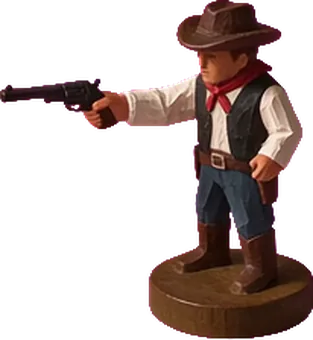
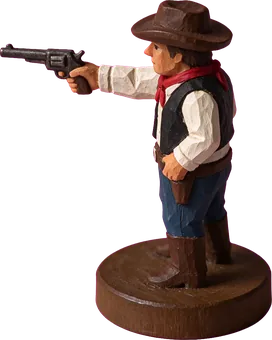
Cowboys: true side profiles (7 side views were three-quarter duplicates)

diff --git a/src/ui/sprites.ts b/src/ui/sprites.ts
@@ -1,6 +1,6 @@
 // Generated by the piece-art extract script: every piece picture and its size in pixels.
 // Pictures live in public/pieces/<army>/<piece>-<front|fdiag|side|bdiag|back>.webp; turned views (fdiag, side, bdiag) face left.
-export const SPRITES: Record<string, Record<string, Partial<Record<string, [number, number]>>>> = {"frontier":{"king":{"front":[157,330],"fdiag":[149,329],"side":[153,329],"back":[164,330],"bdiag":[152,330],"front-right":[209,330],"right":[294,330],"back-right":[284,330],"back-left":[216,330],"left":[315,330],"front-left":[287,330]},"lightInfantry":{"front":[155,332],"fdiag":[193,332],"side":[154,346],"bdiag":[200,332],"back":[155,332],"front-right":[266,332],"right":[252,332],"back-right":[206,332],"back-left":[244,332],"left":[241,332],"front-left":[201,332]},"gunslinger":{"front":[161,340],"fdiag":[153,340],"side":[153,340],"bdiag":[160,340],"back":[180,340],"front-right":[246,340],"right":[302,340],"back-right":[230,340],"back-left":[201,340],"left":[313,340],"front-left":[259,340]},"rifleman":{"front":[175,337],"fdiag":[189,337],"side":[206,337],"back":[162,337],"bdiag":[199,337],"front-right":[288,337],"right":[329,337],"back-right":[269,337],"back-left":[224,337],"left":[314,337],"front-left":[269,337]},"cowboy":{"front":[200,447],"fdiag":[259,446],"side":[353,452],"back":[181,447],"bdiag":[246,447],"front-right":[269,447],"right":[329,447],"back-right":[250,447],"back-left":[233,447],"left":[322,447],"front-left":[272,447]},"heavyCavalry":{"front":[168,456],"fdiag":[227,451],"side":[374,447],"back":[172,456],"bdiag":[232,456],"front-right":[395,456],"right":[399,456],"back-right":[393,456],"back-left":[250,456],"left":[432,456],"front-left":[365,456]}},"novgorod":{"king":{"front":[203,319],"fdiag":[165,318],"side":[164,319],"back":[195,318],"bdiag":[178,319]},"lightInfantry":{"front":[193,339],"fdiag":[187,340],"side":[188,308],"back":[190,336],"bdiag":[161,339]},"heavyInfantry":{"front":[225,302],"fdiag":[205,302],"side":[211,303],"bdiag":[193,303],"back":[198,302]},"archer":{"front":[144,317],"fdiag":[154,316],"side":[160,315],"bdiag":[164,316],"back":[145,316]},"lightCavalry":{"front":[144,436],"fdiag":[229,424],"side":[309,377],"back":[141,433],"bdiag":[210,436]},"heavyCavalry":{"front":[143,422],"fdiag":[224,440],"side":[323,422],"back":[133,401],"bdiag":[195,422]}},"teutonic":{"king":{"front":[166,327],"side":[166,327],"back":[157,326],"fdiag":[153,327],"bdiag":[156,327]},"lightInfantry":{"front":[142,340],"side":[140,340],"back":[145,287],"fdiag":[145,340],"bdiag":[143,340]},"heavyInfantry":{"front":[167,309],"side":[168,309],"back":[175,309],"fdiag":[141,309],"bdiag":[157,309]},"archer":{"front":[178,327],"side":[140,326],"back":[171,326],"fdiag":[176,324],"bdiag":[165,324]},"lightCavalry":{"front":[142,439],"fdiag":[233,439],"side":[298,440],"bdiag":[228,435],"back":[149,440]},"heavyCavalry":{"front":[142,442],"fdiag":[226,446],"side":[297,452],"bdiag":[222,434],"back":[160,446]}},"mongols":{"king":{"front":[165,373],"fdiag":[167,371],"side":[161,370],"bdiag":[160,371],"back":[160,371]},"lightInfantry":{"front":[150,402],"fdiag":[161,400],"side":[160,401],"bdiag":[159,399],"back":[157,399]},"archer":{"front":[177,356],"fdiag":[185,358],"side":[160,356],"bdiag":[186,358],"back":[182,357]},"lightCavalry":{"front":[192,474],"fdiag":[339,470],"side":[383,471],"back":[201,474],"bdiag":[352,474]},"heavyCavalry":{"front":[195,516],"fdiag":[332,512],"side":[447,507],"back":[203,519],"bdiag":[332,516]},"horseArcher":{"front":[261,504],"fdiag":[333,504],"side":[417,504],"bdiag":[517,504],"back":[259,505]}},"japanese":{"king":{"front":[221,466],"fdiag":[233,469],"side":[225,468],"bdiag":[204,461],"back":[211,461]},"ashigaru":{"front":[200,461],"side":[198,457],"back":[203,405],"fdiag":[191,461],"bdiag":[200,461]},"samurai":{"front":[234,487],"fdiag":[234,477],"side":[251,472],"bdiag":[215,486],"back":[244,476]},"archer":{"front":[176,428],"side":[188,426],"back":[178,427],"fdiag":[185,427],"bdiag":[189,427]},"lightCavalry":{"front":[217,638],"fdiag":[312,635],"side":[479,539],"back":[222,637],"bdiag":[353,638]},"heavyCavalry":{"front":[220,614],"fdiag":[310,613],"side":[478,615],"bdiag":[322,614],"back":[216,619]}},"comanche":{"king":{"front":[154,354],"fdiag":[162,353],"side":[156,353],"bdiag":[156,354],"back":[164,355]},"lightInfantry":{"front":[193,361],"fdiag":[181,361],"side":[155,365],"bdiag":[167,361],"back":[176,361]},"archer":{"front":[175,359],"fdiag":[165,359],"side":[158,364],"bdiag":[163,359],"back":[159,359]},"lightCavalry":{"front":[169,495],"fdiag":[283,493],"side":[345,483],"back":[169,491],"bdiag":[252,495]},"horseArcher":{"front":[226,475],"fdiag":[319,468],"side":[393,465],"back":[204,472],"bdiag":[262,475]}}};
+export const SPRITES: Record<string, Record<string, Partial<Record<string, [number, number]>>>> = {"frontier":{"king":{"front":[157,330],"fdiag":[149,329],"side":[153,329],"back":[164,330],"bdiag":[152,330],"front-right":[209,330],"right":[292,330],"back-right":[284,330],"back-left":[216,330],"left":[246,330],"front-left":[287,330]},"lightInfantry":{"front":[155,332],"fdiag":[193,332],"side":[154,346],"bdiag":[200,332],"back":[155,332],"front-right":[266,332],"right":[329,332],"back-right":[206,332],"back-left":[244,332],"left":[300,332],"front-left":[201,332]},"gunslinger":{"front":[161,340],"fdiag":[153,340],"side":[153,340],"bdiag":[160,340],"back":[180,340],"front-right":[246,340],"right":[261,340],"back-right":[230,340],"back-left":[201,340],"left":[272,340],"front-left":[259,340]},"rifleman":{"front":[175,337],"fdiag":[189,337],"side":[206,337],"back":[162,337],"bdiag":[199,337],"front-right":[288,337],"right":[347,337],"back-right":[269,337],"back-left":[224,337],"left":[314,337],"front-left":[269,337]},"cowboy":{"front":[200,447],"fdiag":[259,446],"side":[353,452],"back":[181,447],"bdiag":[246,447],"front-right":[269,447],"right":[329,447],"back-right":[250,447],"back-left":[233,447],"left":[322,447],"front-left":[272,447]},"heavyCavalry":{"front":[168,456],"fdiag":[227,451],"side":[374,447],"back":[172,456],"bdiag":[232,456],"front-right":[395,456],"right":[399,456],"back-right":[393,456],"back-left":[250,456],"left":[432,456],"front-left":[365,456]}},"novgorod":{"king":{"front":[203,319],"fdiag":[165,318],"side":[164,319],"back":[195,318],"bdiag":[178,319]},"lightInfantry":{"front":[193,339],"fdiag":[187,340],"side":[188,308],"back":[190,336],"bdiag":[161,339]},"heavyInfantry":{"front":[225,302],"fdiag":[205,302],"side":[211,303],"bdiag":[193,303],"back":[198,302]},"archer":{"front":[144,317],"fdiag":[154,316],"side":[160,315],"bdiag":[164,316],"back":[145,316]},"lightCavalry":{"front":[144,436],"fdiag":[229,424],"side":[309,377],"back":[141,433],"bdiag":[210,436]},"heavyCavalry":{"front":[143,422],"fdiag":[224,440],"side":[323,422],"back":[133,401],"bdiag":[195,422]}},"teutonic":{"king":{"front":[166,327],"side":[166,327],"back":[157,326],"fdiag":[153,327],"bdiag":[156,327]},"lightInfantry":{"front":[142,340],"side":[140,340],"back":[145,287],"fdiag":[145,340],"bdiag":[143,340]},"heavyInfantry":{"front":[167,309],"side":[168,309],"back":[175,309],"fdiag":[141,309],"bdiag":[157,309]},"archer":{"front":[178,327],"side":[140,326],"back":[171,326],"fdiag":[176,324],"bdiag":[165,324]},"lightCavalry":{"front":[142,439],"fdiag":[233,439],"side":[298,440],"bdiag":[228,435],"back":[149,440]},"heavyCavalry":{"front":[142,442],"fdiag":[226,446],"side":[297,452],"bdiag":[222,434],"back":[160,446]}},"mongols":{"king":{"front":[165,373],"fdiag":[167,371],"side":[161,370],"bdiag":[160,371],"back":[160,371]},"lightInfantry":{"front":[150,402],"fdiag":[161,400],"side":[160,401],"bdiag":[159,399],"back":[157,399]},"archer":{"front":[177,356],"fdiag":[185,358],"side":[160,356],"bdiag":[186,358],"back":[182,357]},"lightCavalry":{"front":[192,474],"fdiag":[339,470],"side":[383,471],"back":[201,474],"bdiag":[352,474]},"heavyCavalry":{"front":[195,516],"fdiag":[332,512],"side":[447,507],"back":[203,519],"bdiag":[332,516]},"horseArcher":{"front":[261,504],"fdiag":[333,504],"side":[417,504],"bdiag":[517,504],"back":[259,505]}},"japanese":{"king":{"front":[221,466],"fdiag":[233,469],"side":[225,468],"bdiag":[204,461],"back":[211,461]},"ashigaru":{"front":[200,461],"side":[198,457],"back":[203,405],"fdiag":[191,461],"bdiag":[200,461]},"samurai":{"front":[234,487],"fdiag":[234,477],"side":[251,472],"bdiag":[215,486],"back":[244,476]},"archer":{"front":[176,428],"side":[188,426],"back":[178,427],"fdiag":[185,427],"bdiag":[189,427]},"lightCavalry":{"front":[217,638],"fdiag":[312,635],"side":[479,539],"back":[222,637],"bdiag":[353,638]},"heavyCavalry":{"front":[220,614],"fdiag":[310,613],"side":[478,615],"bdiag":[322,614],"back":[216,619]}},"comanche":{"king":{"front":[154,354],"fdiag":[162,353],"side":[156,353],"bdiag":[156,354],"back":[164,355]},"lightInfantry":{"front":[193,361],"fdiag":[181,361],"side":[155,365],"bdiag":[167,361],"back":[176,361]},"archer":{"front":[175,359],"fdiag":[165,359],"side":[158,364],"bdiag":[163,359],"back":[159,359]},"lightCavalry":{"front":[169,495],"fdiag":[283,493],"side":[345,483],"back":[169,491],"bdiag":[252,495]},"horseArcher":{"front":[226,475],"fdiag":[319,468],"side":[393,465],"back":[204,472],"bdiag":[262,475]}}};
 
 /** Changes whenever any picture changes, so phones fetch the new ones instead of a cached copy. */
-export const ART_VERSION = '8ea600d9';
+export const ART_VERSION = 'ef6591ec';
